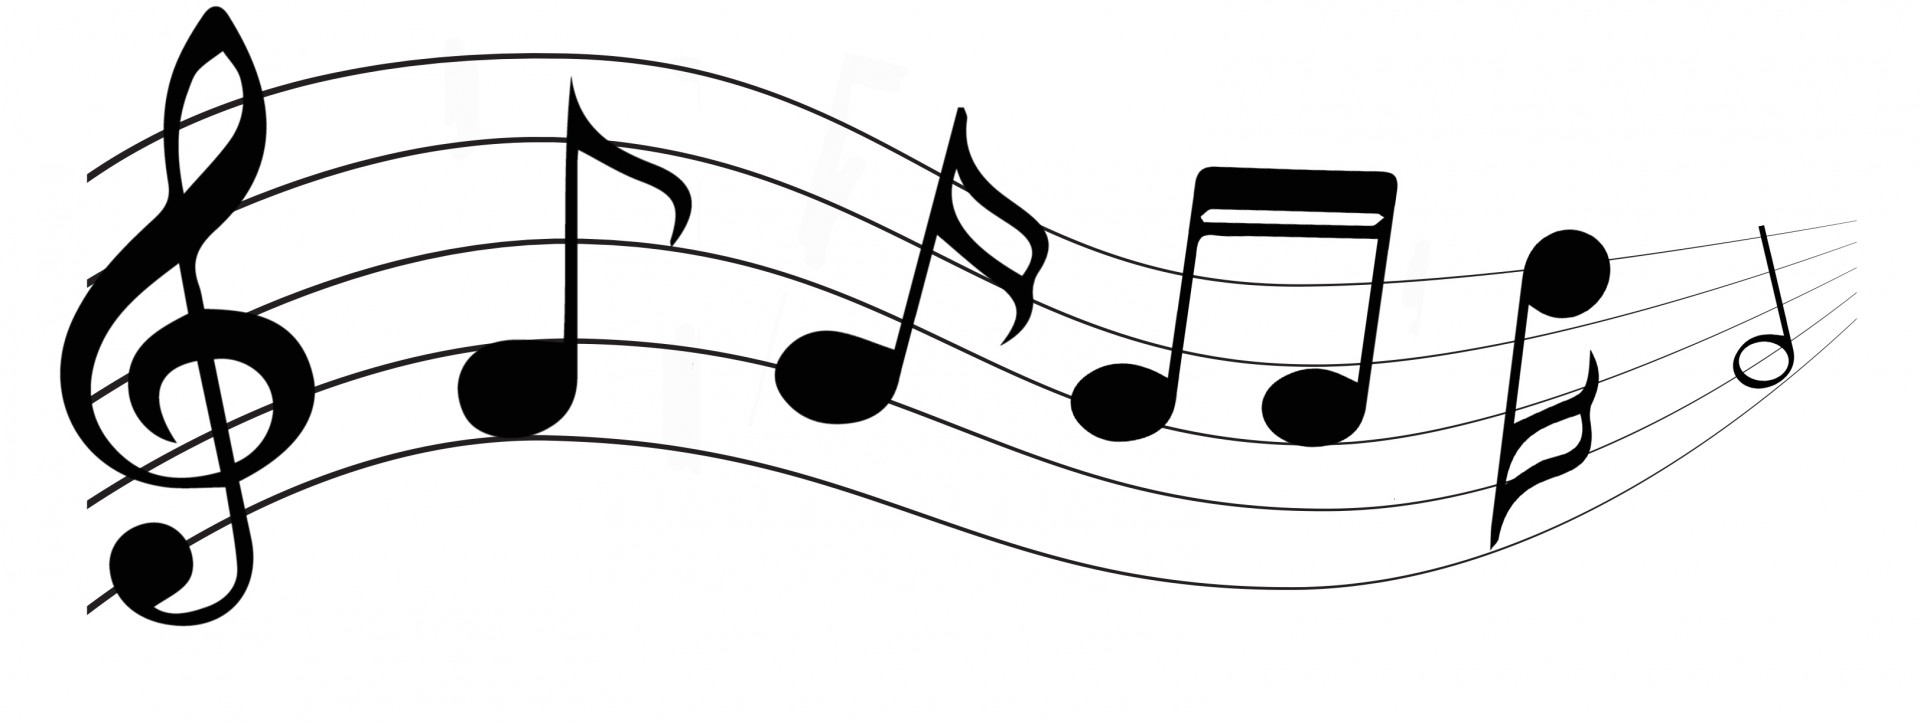
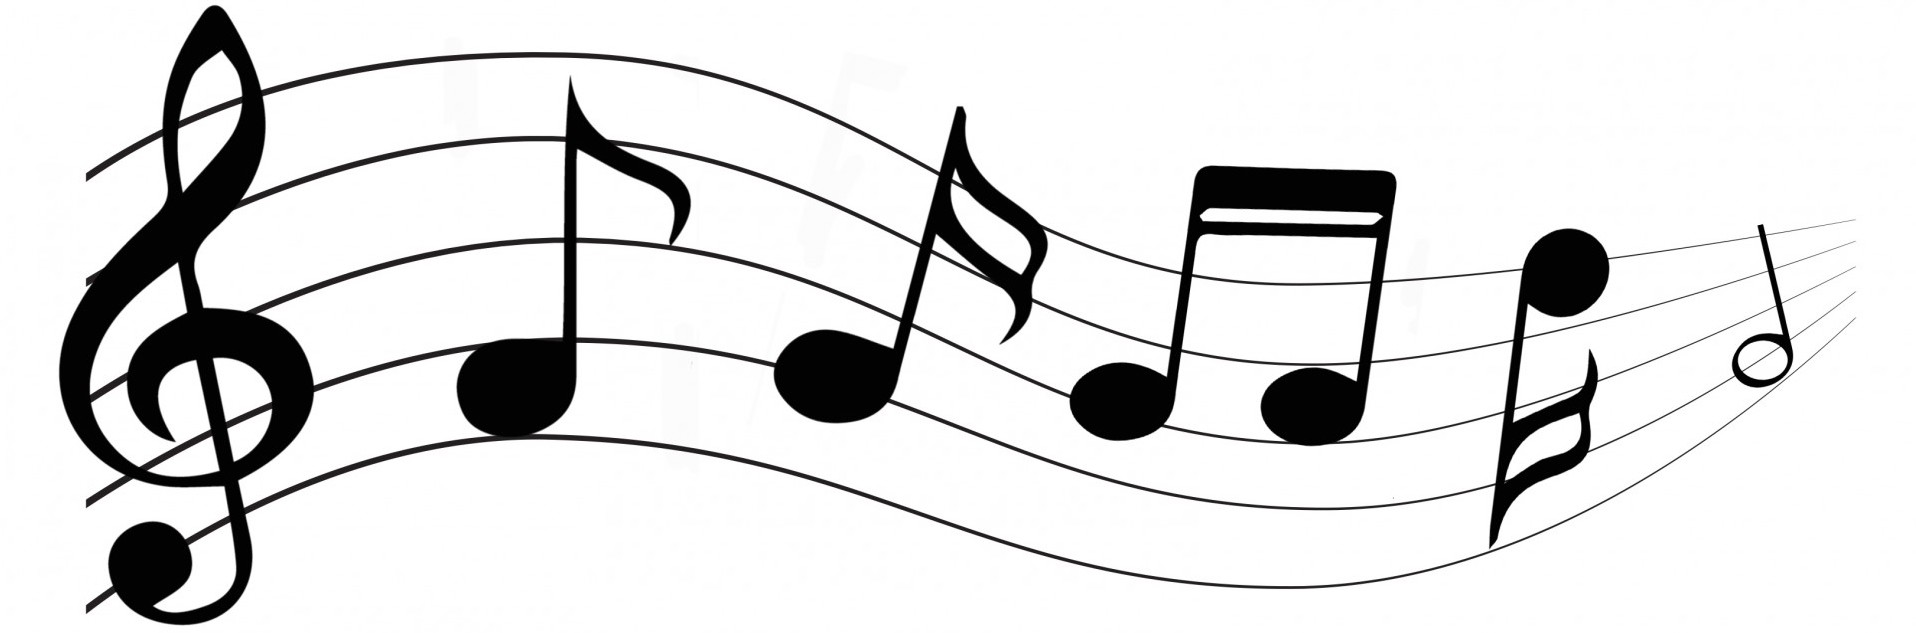
Add header images.

diff --git a/index.html b/index.html
@@ -10,7 +10,12 @@
   <!-- Header -->
 
   <header>
-
+    <div class="header-column_1">
+      <img id="header-logo" src="./resources/images/band_logo.jpg" alt="Totty Band logo.">
+    </div>
+    <div class="header-column_2">
+      <img id="header-notes" src="./resources/images/musical-notes_COPYRIGHTED.jpg" alt="Musical notes.">
+    </div>
   </header>
 
   <!-- Main Content Container -->
@@ -34,7 +39,7 @@
       <p>If you have any comments about the band or the site, please contact us on the numbers of the contacts page or by email at <a href="mailto:webmaster@tottingtonpublicband.co.uk">webmaster@tottingtonpublicband.co.uk</a></p>
       <p>We hope that you enjoy the site and that you will come and see us play, or better still, book us to play for you. All the information that you need is contained in this site.</p>
       <p>We are proud to be part of the fine tradition of Lancashire for producing quality Brass Bands, and are available for all types of functions, please see our bookings page.</p>
-      <img src="./resources/images/Totty_band_2013.jpg" alt="An image of the Totty Band in 2013!">
+      <img src="./resources/images/Totty_band_2013.jpg" alt="The Totty Band in 2013!">
     </div>
   </div>
 

diff --git a/resources/css/style.css b/resources/css/style.css
@@ -1,3 +1,9 @@
+* {
+    -moz-box-sizing: border-box;
+    -webkit-box-sizing: border-box;
+     box-sizing: border-box;
+}
+
 body {
   font-family: Arial, Helvetica, sans-serif;
   font-size: 100%;
@@ -8,7 +14,24 @@ body {
 }
 
 header {
+  width: 960px;
+  height: 200px;
+  margin: 0 auto 0 auto;
+  background-color: white;
+  border: 1px solid blue;
 
+  display: flex;
+}
+
+.header-column_1 img {
+  width: 200px;
+  height: 200px;
+}
+
+.header-column_2 img {
+  width: 760px;
+  height: 200px;
+  margin: auto;
 }
 
 .content {
@@ -22,6 +45,7 @@ header {
 .column_1 {
   width: 200px;
   border: 1px solid green;
+  padding: 0 10px 10px 10px;
 }
 
 .column_2 {
@@ -31,7 +55,7 @@ header {
 }
 
 .column_2 img {
-  width: inherit;
+  width: 740px;
 }
 
 footer {
